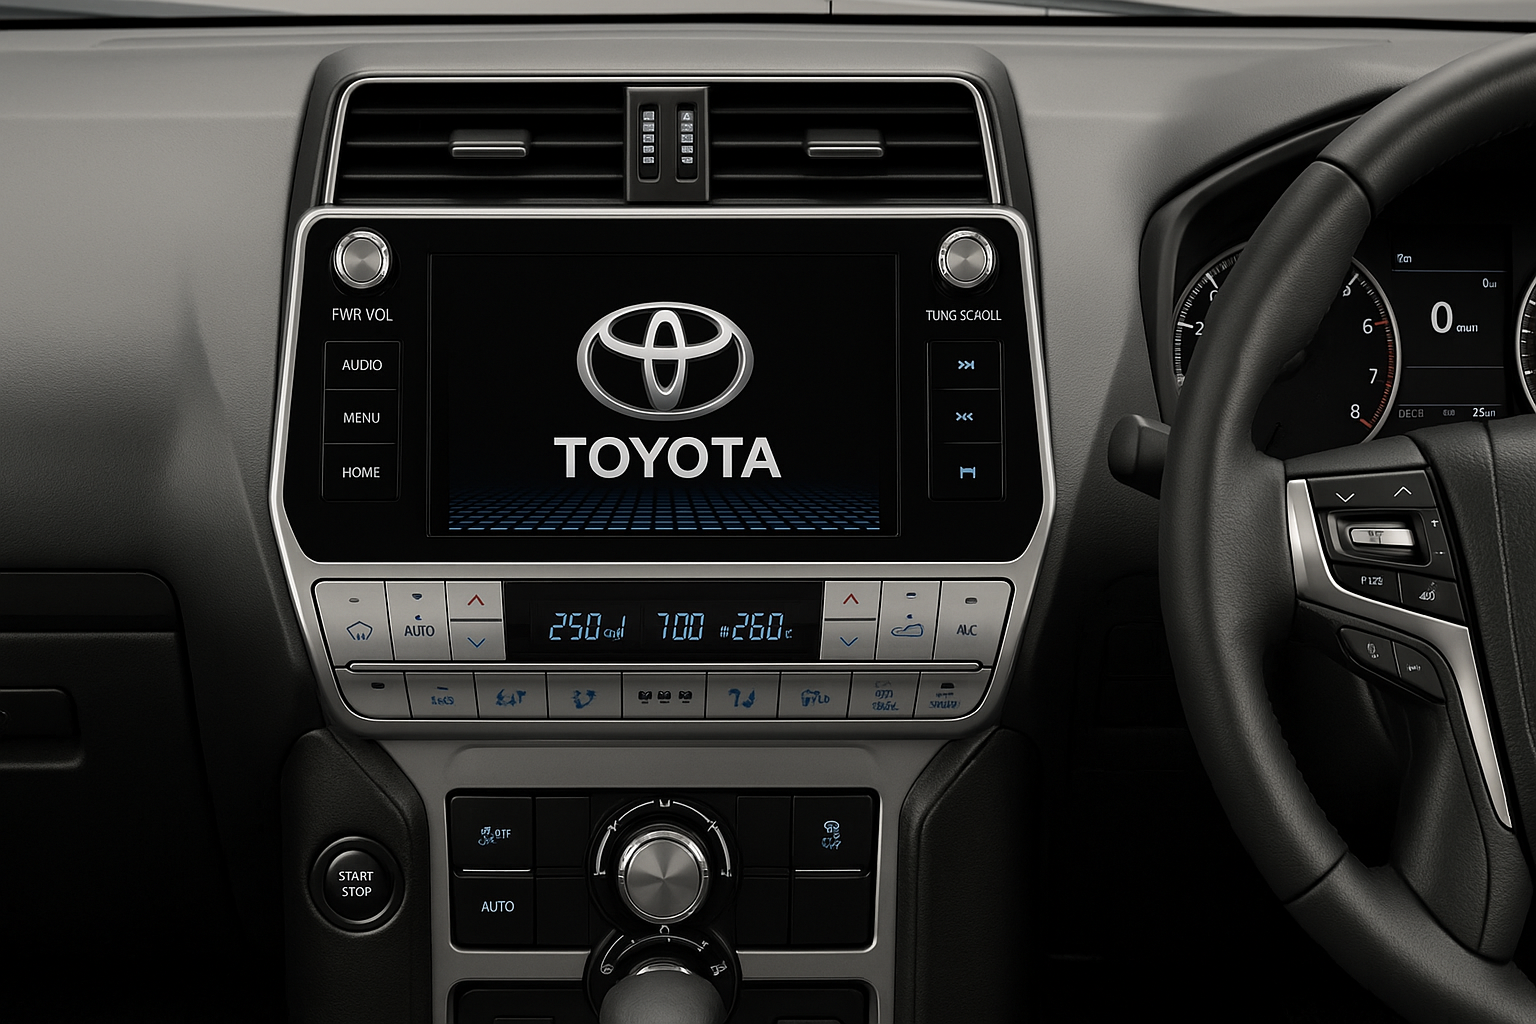
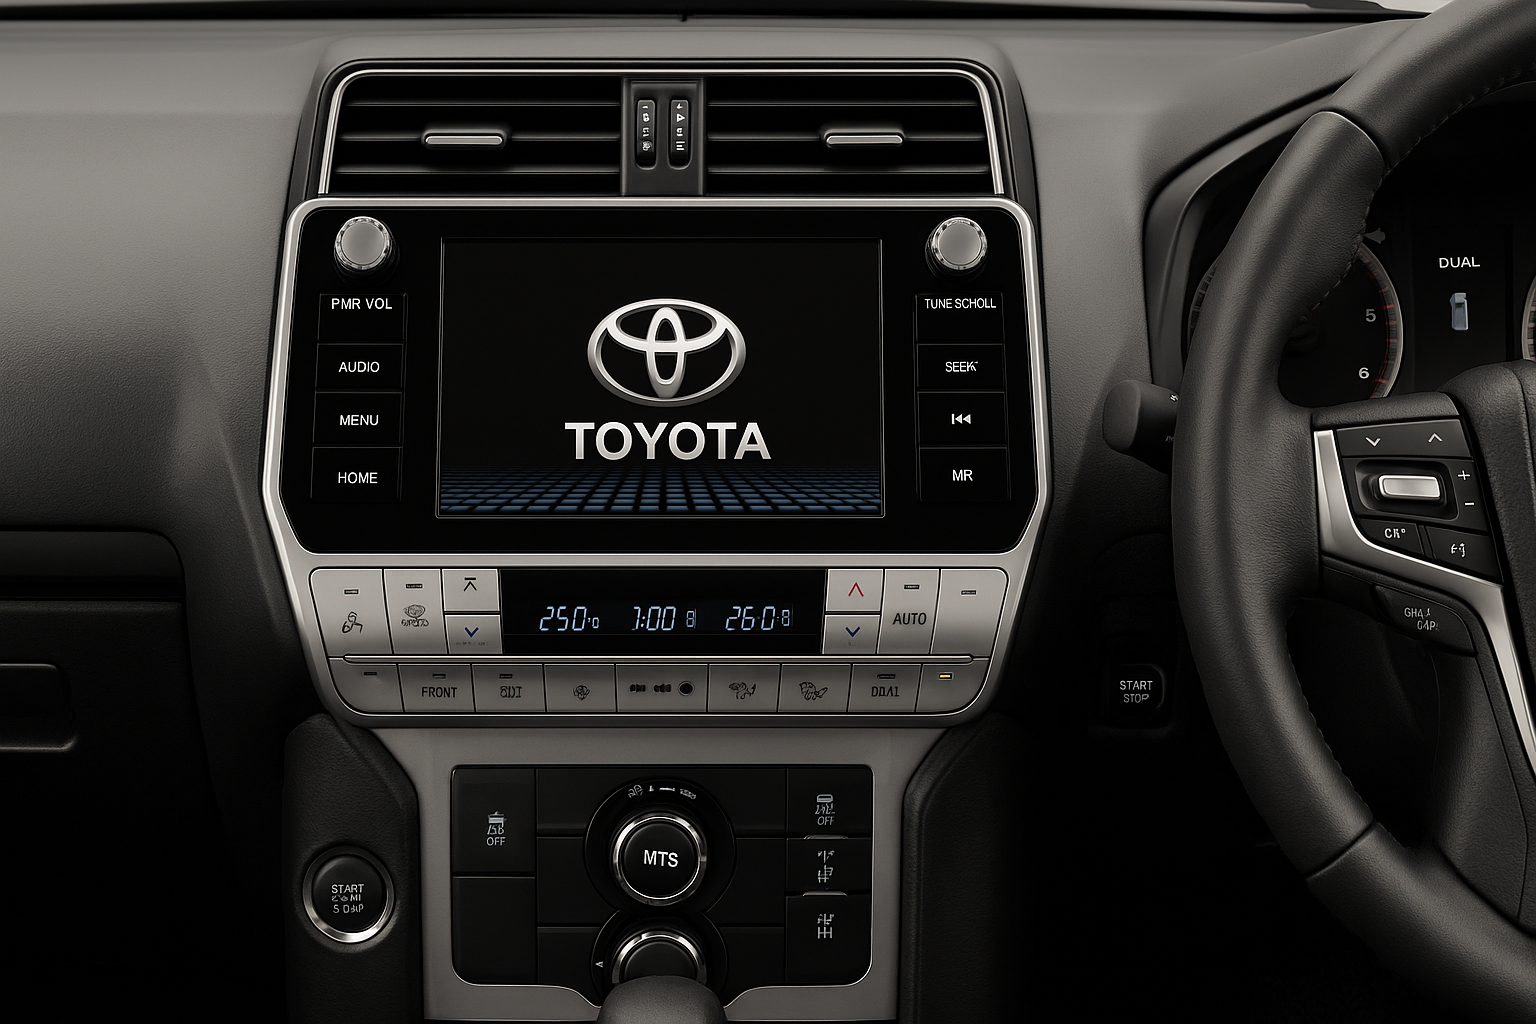
added

diff --git a/regenerate_rhd_installs.py b/regenerate_rhd_installs.py
@@ -1,0 +1,236 @@
+"""
+Regenerate RHD Installed Images
+================================
+For every car folder in carav_output that contains:
+  - product_dashboard_half_rhd.png   (new RHD dashboard)
+  - step1_trim_and_screen_*.png      (existing trim + screen, already generated)
+  - product_trim_half.png            (trim half, for the composite)
+
+…this script generates a NEW step2 "Trim & Screen Installed" image using the
+RHD dashboard instead of the original one, then rebuilds the composite.
+
+Output files written per car folder:
+  step2_installed_<timestamp>_rhd.png   — new AI-generated installed shot
+  <folder_name>_composite_rhd.png       — updated 4-panel composite
+
+Usage:
+  # Run all cars (full generation)
+  python regenerate_rhd_installs.py
+
+  # Dry-run: print what would be processed without calling OpenAI
+  python regenerate_rhd_installs.py --dry-run
+
+  # Single car folder (partial name match is fine)
+  python regenerate_rhd_installs.py --car "Yaris"
+
+  # Use responses API instead of images.edit
+  python regenerate_rhd_installs.py --method responses
+
+Environment:
+  Set OPENAI_API_KEY in your environment or in a .env file.
+"""
+
+import argparse
+import logging
+import sys
+import time
+from datetime import datetime
+from pathlib import Path
+
+logging.basicConfig(
+    level=logging.INFO,
+    format="%(asctime)s [%(levelname)s] %(message)s",
+)
+logger = logging.getLogger(__name__)
+
+try:
+    from PIL import Image, ImageDraw, ImageFont
+except ImportError:
+    print("ERROR: Pillow not installed.  Run: pip install Pillow")
+    sys.exit(1)
+
+from generate_carav_install import generate_image, get_client, PROMPT_IMAGE2
+from carav_pipeline import build_composite
+
+# ─── Paths ───────────────────────────────────────────────────────────────
+SCRIPT_DIR = Path(__file__).parent
+DEFAULT_OUTPUT_DIR = SCRIPT_DIR / "carav_output"
+
+RHD_DASH_NAME = "product_dashboard_half_rhd.png"
+TRIM_NAME = "product_trim_half.png"
+
+
+# ─── Helpers ─────────────────────────────────────────────────────────────
+
+def find_latest_step1(car_dir: Path) -> Path | None:
+    """Return the most-recently-modified step1_trim_and_screen_*.png, or None."""
+    candidates = sorted(car_dir.glob("step1_trim_and_screen_*.png"),
+                        key=lambda p: p.stat().st_mtime, reverse=True)
+    return candidates[0] if candidates else None
+
+
+def car_name_from_folder(folder_name: str) -> str:
+    """Convert folder name (underscores/mixed) to a readable car name for the composite title."""
+    # Replace underscores with spaces — the folder names are already pretty readable
+    return folder_name.replace("_", " ")
+
+
+# ─── Per-car logic ────────────────────────────────────────────────────────
+
+def process_car(
+    car_dir: Path,
+    client,
+    method: str,
+    dry_run: bool,
+) -> bool:
+    """
+    Generate a new RHD step2 image and composite for one car folder.
+    Returns True on success, False on skip/failure.
+    """
+    folder_name = car_dir.name
+
+    rhd_dash = car_dir / RHD_DASH_NAME
+    trim_path = car_dir / TRIM_NAME
+
+    if not rhd_dash.exists():
+        logger.warning("[%s] Missing %s — skipping.", folder_name, RHD_DASH_NAME)
+        return False
+
+    if not trim_path.exists():
+        logger.warning("[%s] Missing %s — skipping.", folder_name, TRIM_NAME)
+        return False
+
+    step1_path = find_latest_step1(car_dir)
+    if step1_path is None:
+        logger.warning("[%s] No step1_trim_and_screen_*.png found — skipping.", folder_name)
+        return False
+
+    logger.info("─" * 60)
+    logger.info("Car     : %s", folder_name)
+    logger.info("RHD dash: %s", rhd_dash.name)
+    logger.info("Step1   : %s", step1_path.name)
+
+    if dry_run:
+        logger.info("[DRY RUN] Would generate step2_rhd and composite — skipping API call.")
+        return True
+
+    timestamp = datetime.now().strftime("%Y%m%d_%H%M%S")
+
+    # ── Generate new step2 using RHD dashboard + existing step1 ─────────
+    # Image order matches PROMPT_IMAGE2:
+    #   image 1 → reference dashboard (now the RHD version)
+    #   image 2 → assembled trim + screen unit
+    logger.info("Generating step2 RHD installed image …")
+    t0 = time.time()
+    img2_bytes = generate_image(client, [rhd_dash, step1_path], PROMPT_IMAGE2, method)
+    elapsed = time.time() - t0
+    logger.info("  API call took %.1fs", elapsed)
+
+    if img2_bytes is None:
+        logger.error("[%s] step2 RHD generation failed — skipping composite.", folder_name)
+        return False
+
+    step2_rhd_path = car_dir / f"step2_installed_{timestamp}_rhd.png"
+    step2_rhd_path.write_bytes(img2_bytes)
+    logger.info("  Saved → %s (%d bytes)", step2_rhd_path.name, len(img2_bytes))
+
+    # ── Build composite (trim | RHD dash | step1 | step2_rhd) ───────────
+    logger.info("Building composite …")
+    composite = build_composite(
+        trim_path=trim_path,
+        dash_path=rhd_dash,
+        step1_path=step1_path,
+        step2_path=step2_rhd_path,
+        output_dir=car_dir,
+        car_name=car_name_from_folder(folder_name),
+        folder_name=f"{folder_name}_rhd",   # distinct filename from the original
+    )
+    logger.info("  Composite → %s", composite.name)
+    return True
+
+
+# ─── Main ─────────────────────────────────────────────────────────────────
+
+def main():
+    parser = argparse.ArgumentParser(
+        description="Regenerate RHD step2 + composite for all cars in carav_output",
+    )
+    parser.add_argument(
+        "--output-dir",
+        type=Path,
+        default=DEFAULT_OUTPUT_DIR,
+        help=f"Root carav_output directory (default: {DEFAULT_OUTPUT_DIR})",
+    )
+    parser.add_argument(
+        "--car",
+        default=None,
+        help="Only process folders whose name contains this substring (case-insensitive)",
+    )
+    parser.add_argument(
+        "--method",
+        choices=["edit", "responses"],
+        default="edit",
+        help="OpenAI API method: 'edit' (default) or 'responses'",
+    )
+    parser.add_argument(
+        "--dry-run",
+        action="store_true",
+        help="Print what would be processed without calling OpenAI",
+    )
+    args = parser.parse_args()
+
+    output_dir: Path = args.output_dir
+    if not output_dir.exists():
+        logger.error("Output directory not found: %s", output_dir)
+        sys.exit(1)
+
+    # Collect car folders
+    car_dirs = sorted(p for p in output_dir.iterdir() if p.is_dir())
+    if args.car:
+        needle = args.car.lower()
+        car_dirs = [p for p in car_dirs if needle in p.name.lower()]
+        if not car_dirs:
+            logger.error("No folders matched --car filter '%s'", args.car)
+            sys.exit(1)
+
+    logger.info("Found %d car folder(s) to process.", len(car_dirs))
+
+    client = None
+    if not args.dry_run:
+        client = get_client()
+
+    succeeded = []
+    failed = []
+    skipped = []
+
+    for car_dir in car_dirs:
+        try:
+            ok = process_car(car_dir, client, args.method, args.dry_run)
+            if ok:
+                succeeded.append(car_dir.name)
+            else:
+                skipped.append(car_dir.name)
+        except Exception as exc:
+            logger.exception("Unhandled error for %s: %s", car_dir.name, exc)
+            failed.append(car_dir.name)
+
+    # ── Summary ───────────────────────────────────────────────────────────
+    logger.info("=" * 60)
+    logger.info("Done.  Succeeded: %d  |  Skipped: %d  |  Failed: %d",
+                len(succeeded), len(skipped), len(failed))
+    if succeeded:
+        logger.info("Succeeded:")
+        for name in succeeded:
+            logger.info("  ✓  %s", name)
+    if skipped:
+        logger.info("Skipped (missing files):")
+        for name in skipped:
+            logger.info("  -  %s", name)
+    if failed:
+        logger.info("Failed (errors):")
+        for name in failed:
+            logger.info("  ✗  %s", name)
+
+
+if __name__ == "__main__":
+    main()
